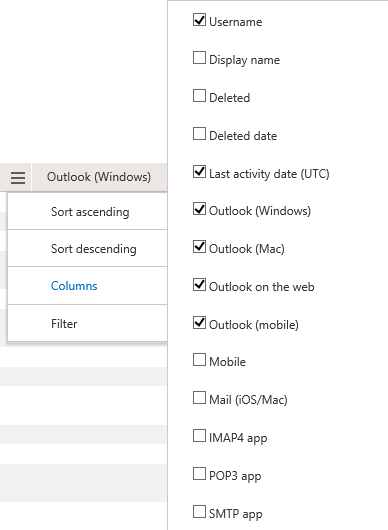
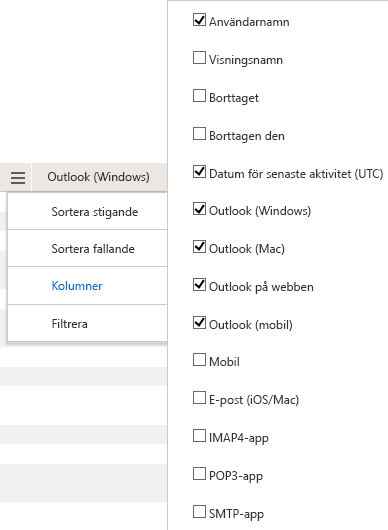
commit translated contents

diff --git a/microsoft-365/enterprise/connect-to-all-microsoft-365-services-in-a-single-windows-powershell-window.md b/microsoft-365/enterprise/connect-to-all-microsoft-365-services-in-a-single-windows-powershell-window.md
@@ -3,7 +3,7 @@ title: Ansluta till alla Microsoft 365-tjänster i ett enda PowerShell-fönster
 ms.author: josephd
 author: JoeDavies-MSFT
 manager: laurawi
-ms.date: 08/26/2020
+ms.date: 09/10/2020
 audience: ITPro
 ms.topic: article
 ms.service: o365-administration
@@ -18,12 +18,12 @@ ms.custom:
 - httpsfix
 ms.assetid: 53d3eef6-4a16-4fb9-903c-816d5d98d7e8
 description: 'Sammanfattning: Ansluta till alla Microsoft 365-tjänster i ett enda PowerShell-fönster.'
-ms.openlocfilehash: af676434017cbe7025baa5e8509e6203a5d59674
-ms.sourcegitcommit: 555d756c69ac9031d1fb928f2e1f9750beede066
+ms.openlocfilehash: 08d2f4c6ce67aa9fea196d56b2eb5f36a36d7943
+ms.sourcegitcommit: aeb94601a81db3ead8610c2f36cff30eb9fe10e7
 ms.translationtype: HT
 ms.contentlocale: sv-SE
-ms.lasthandoff: 08/29/2020
-ms.locfileid: "47307631"
+ms.lasthandoff: 09/10/2020
+ms.locfileid: "47430052"
 ---
 # <a name="connect-to-all-microsoft-365-services-in-a-single-powershell-window"></a>Ansluta till alla Microsoft 365-tjänster i ett enda PowerShell-fönster
 
@@ -39,7 +39,7 @@ Du kan inte använda det här alternativet för att hantera Microsoft 365 efters
 
 Innan du kan hantera hela Microsoft 365 från en enda instans av PowerShell måste följande förutsättningar vara uppfyllda:
   
-- Det Microsoft 365-konto för arbete eller skola som du använder för de här procedurerna måste vara medlem i en administratörsroll för Microsoft 365. Mer information finns i [Om administratörsroller](https://docs.microsoft.com/microsoft-365/admin/add-users/about-admin-roles?view=o365-worldwide). Det här är ett krav för PowerShell för Microsoft 365, inte nödvändigtvis för alla andra Microsoft 365-tjänster.
+- Det Microsoft 365-konto för arbete eller skola som du använder för de här procedurerna måste vara medlem i en administratörsroll för Microsoft 365. Mer information finns i [Om administratörsroller](https://docs.microsoft.com/microsoft-365/admin/add-users/about-admin-roles). Det här är ett krav för PowerShell för Microsoft 365, inte nödvändigtvis för alla andra Microsoft 365-tjänster.
     
 - Du kan använda följande 64-bitars versioner av Windows:
     
@@ -66,7 +66,7 @@ Innan du kan hantera hela Microsoft 365 från en enda instans av PowerShell mås
    - [Azure Active Directory V2](connect-to-microsoft-365-powershell.md#connect-with-the-azure-active-directory-powershell-for-graph-module)
    - [SharePoint Online Management Shell](https://go.microsoft.com/fwlink/p/?LinkId=255251)
    - [Skype för företag – Online, PowerShell-modul](https://go.microsoft.com/fwlink/p/?LinkId=532439)
-   - [Exchange Online PowerShell V2](https://docs.microsoft.com/powershell/exchange/exchange-online/exchange-online-powershell-v2/exchange-online-powershell-v2?view=exchange-ps#install-and-maintain-the-exchange-online-powershell-v2-module)
+   - [Exchange Online PowerShell V2](https://docs.microsoft.com/powershell/exchange/exchange-online/exchange-online-powershell-v2/exchange-online-powershell-v2#install-and-maintain-the-exchange-online-powershell-v2-module)
    - [Teams PowerShell översikt](https://docs.microsoft.com/microsoftteams/teams-powershell-overview)
     
 -  PowerShell måste konfigureras för körning av signerade skript för Skype för företag – Online och Säkerhets- &amp; efterlevnadscenter. Det gör du genom att köra följande kommando i en upphöjd PowerShell-session (ett PowerShell-fönster som du öppnar genom att välja **Kör som administratör**).
@@ -74,6 +74,12 @@ Innan du kan hantera hela Microsoft 365 från en enda instans av PowerShell mås
    ```powershell
    Set-ExecutionPolicy RemoteSigned
    ```
+
+## <a name="exchange-online-and-security-amp-compliance-center-with-the-exchange-online-powershell-v2-module"></a>Exchange Online och Säkerhets &amp; Efterlevnadscenter med modulen Exchange Online PowerShell V2
+
+I den här artikeln används Exchange Online PowerShell V2-modulen för att ansluta till både Exchange Online och Säkerhets &amp; Efterlevnadscenter. Men för närvarande går det inte att ansluta till både Exchange Online och Säkerhets &amp; Efterlevnadscenter **i samma PowerShell-fönster**.
+
+Därför måste du välja en anslutning med endera Exchange Online *eller* Säkerhets &amp; Efterlevnadscenter när du konfigurerar ett PowerShell-fönster för flera Microsoft 365-tjänster.
 
 ## <a name="connection-steps-when-using-just-a-password"></a>Anslutningssteg när du bara använder ett lösenord
 
@@ -93,14 +99,14 @@ Här är några steg för att ansluta till alla tjänster i ett enda PowerShell-
    Connect-AzureAD -Credential $credential
    ```
   
-   Om du däremot använder modulen Microsoft Azure Active Directory för PowerShell-moduler kör du det här kommandot.
+   Om du använder modulen Microsoft Azure Active Directory-modul för Windows PowerShell kör du det här kommandot.
       
    ```powershell
    Connect-MsolService -Credential $credential
    ```
 
    > [!Note]
-   > PowerShell Core stöder inte modulen Microsoft Azure Active Directory för PowerShell-moduler och -cmdlets med **MSOL** i namnet. Om du vill fortsätta använda dessa cmdlets måste du köra dem från PowerShell.
+   > PowerShell Core stöder inte Microsoft Azure Active Directory-modul för Windows PowerShell-modulen och-cmdlets med **MSOL** i namnet. Om du vill fortsätta använda dessa cmdlets måste du köra dem från PowerShell.
 
 4. Kör dessa kommandon för att ansluta till SharePoint Online. Ange organisationsnamnet för din domän. Till exempel, för "litwareinc.onmicrosoft.com" är organisationensnamnet "litwareinc".
     
@@ -120,13 +126,25 @@ Här är några steg för att ansluta till alla tjänster i ett enda PowerShell-
 6. Kör det här kommandot när du vill ansluta till Exchange Online.
     
    ```powershell
+   Import-Module ExchangeOnlineManagement
    Connect-ExchangeOnline -Credential $credential -ShowProgress $true
    ```
 
    > [!Note]
-   > Om du vill ansluta till Exchange Online för Microsoft 365-moln som inte är världsomspännande använder du **-ExchangeEnvironmentName** parameter. Mer information finns i [Connect-ExchangeOnline](https://docs.microsoft.com/powershell/module/exchange/powershell-v2-module/connect-exchangeonline?view=exchange-ps).
+   > Om du vill ansluta till Exchange Online för Microsoft 365-moln som inte är världsomspännande se [-Ansluta till Exchange Online PowerShell](https://docs.microsoft.com/powershell/exchange/connect-to-exchange-online-powershell).
 
-7. Kör dessa kommandon för att ansluta till Teams PowerShell.
+7. Kör dessa kommandon för att ansluta till Säkerhets &amp; Efterlevnadscenter.
+    
+   ```powershell
+   $acctName="<UPN of the account, such as belindan@litwareinc.onmicrosoft.com>"
+   Import-Module ExchangeOnlineManagement
+   Connect-IPPSSession -UserPrincipalName $acctName
+   ```
+
+   > [!Note]
+   > Om du vill ansluta till &amp; säkerhet- och efterlevnadscenter för Microsoft 365-moln, annat än världsomspännande läser du [Ansluta till Säkerhets- och efterlevnadscenter PowerShell](https://docs.microsoft.com/powershell/exchange/connect-to-scc-powershell).
+
+8. Kör dessa kommandon för att ansluta till Teams PowerShell.
     
    ```powershell
    Import-Module MicrosoftTeams
@@ -134,19 +152,12 @@ Här är några steg för att ansluta till alla tjänster i ett enda PowerShell-
    ```
   
    > [!Note]
-   > Om du vill ansluta till Microsoft Teams-moln som inte är världsomspännande läser du [Connect-MicrosoftTeams](https://docs.microsoft.com/powershell/module/teams/connect-microsoftteams?view=teams-ps).
+   > Om du vill ansluta till Microsoft Teams-moln som inte är världsomspännande läser du [Connect-MicrosoftTeams](https://docs.microsoft.com/powershell/module/teams/connect-microsoftteams).
 
-8. Kör dessa kommandon för att ansluta till &amp; säkerhet- och efterlevnadscenter.
-    
-   ```powershell
-   $SccSession = New-PSSession -ConfigurationName Microsoft.Exchange -ConnectionUri https://ps.compliance.protection.outlook.com/powershell-liveid/ -Credential $credential -Authentication "Basic" -AllowRedirection
-   Import-PSSession $SccSession -Prefix cc
-   ```
 
-   > [!Note]
-   > Om du vill ansluta till &amp; säkerhet- och efterlevnadscenter för Microsoft 365-moln, annat än världsomspännande läser du [Ansluta till Säkerhets- och efterlevnadscenter PowerShell](https://docs.microsoft.com/powershell/exchange/office-365-scc/connect-to-scc-powershell/connect-to-scc-powershell).
+### <a name="azure-active-directory-powershell-for-graph-module"></a>Azure Active Directory PowerShell för modulen Graph
 
-Här är alla kommandon i ett enda block när du använder Azure Active Directory PowerShell för Graph-moduler. Ange namnet på domänvärden och kör alla samtidigt.
+Här följer kommandon för alla tjänster *, förutom Säkerhets &amp; Efterlevnadscenter* i ett enda block med hjälp av modulen Azure Active Directory PowerShell för modulen Graph. Ange namnet på domänvärden och kör alla samtidigt.
   
 ```powershell
 $orgName="<for example, litwareinc for litwareinc.onmicrosoft.com>"
@@ -157,14 +168,33 @@ Connect-SPOService -Url https://$orgName-admin.sharepoint.com -credential $crede
 Import-Module SkypeOnlineConnector
 $sfboSession = New-CsOnlineSession -Credential $credential
 Import-PSSession $sfboSession
-$SccSession = New-PSSession -ConfigurationName Microsoft.Exchange -ConnectionUri https://ps.compliance.protection.outlook.com/powershell-liveid/ -Credential $credential -Authentication "Basic" -AllowRedirection
-Import-PSSession $SccSession -Prefix cc
+Import-Module ExchangeOnlineManagement
 Connect-ExchangeOnline -Credential $credential -ShowProgress $true
 Import-Module MicrosoftTeams
 Connect-MicrosoftTeams -Credential $credential
 ```
 
-Alternativt finns här alla kommandon i ett enda block när du använder modulen Microsoft Azure Active Directory för PowerShell-moduler. Ange namnet på domänvärden och kör alla samtidigt.
+Här följer kommandon för alla tjänster *, förutom Exchange Online * i ett enda block med hjälp av modulen Azure Active Directory PowerShell för modulen Graph. Ange namnet på domänvärden och UPN på din inloggning och kör alla samtidigt.
+  
+```powershell
+$orgName="<for example, litwareinc for litwareinc.onmicrosoft.com>"
+$acctName="<UPN of the account, such as belindan@litwareinc.onmicrosoft.com>"
+$credential = Get-Credential -UserName $acctName
+Connect-AzureAD -Credential $credential
+Import-Module Microsoft.Online.SharePoint.PowerShell -DisableNameChecking
+Connect-SPOService -Url https://$orgName-admin.sharepoint.com -credential $credential
+Import-Module SkypeOnlineConnector
+$sfboSession = New-CsOnlineSession -Credential $credential
+Import-PSSession $sfboSession
+Import-Module ExchangeOnlineManagement
+Connect-IPPSSession -UserPrincipalName $acctName
+Import-Module MicrosoftTeams
+Connect-MicrosoftTeams -Credential $credential
+```
+
+### <a name="microsoft-azure-active-directory-module-for-windows-powershell-module"></a>Microsoft Azure Active Directory-modulen för modulen Windows PowerShell
+
+Här följer kommandon för alla tjänster *, förutom Säkerhets &amp; Efterlevnadscenter* i ett enda block med hjälp av modulen Microsoft Azure Active Directory för modulen PowerShell. Ange namnet på domänvärden och kör alla samtidigt.
   
 ```powershell
 $orgName="<for example, litwareinc for litwareinc.onmicrosoft.com>"
@@ -175,22 +205,34 @@ Connect-SPOService -Url https://$orgName-admin.sharepoint.com -credential $crede
 Import-Module SkypeOnlineConnector
 $sfboSession = New-CsOnlineSession -Credential $credential
 Import-PSSession $sfboSession
-$SccSession = New-PSSession -ConfigurationName Microsoft.Exchange -ConnectionUri https://ps.compliance.protection.outlook.com/powershell-liveid/ -Credential $credential -Authentication "Basic" -AllowRedirection
-Import-PSSession $SccSession -Prefix cc
+Import-Module ExchangeOnlineManagement
 Connect-ExchangeOnline -Credential $credential -ShowProgress $true
 Import-Module MicrosoftTeams
 Connect-MicrosoftTeams -Credential $credential
 ```
 
-När du är redo att stänga PowerShell-fönstret kör du det här kommandot för att ta bort aktiva sessioner till Skype för företag – Online, SharePoint Online, Säkerhets- &amp; efterlevnadscenter och Teams:
+Här följer kommandon för alla tjänster *, förutom Exchange Online* i ett enda block med hjälp av modulen Microsoft Azure Active Directory för modulen Windows PowerShell. Ange namnet på domänvärden och UPN på din inloggning och kör alla samtidigt.
   
 ```powershell
-Remove-PSSession $sfboSession ; Remove-PSSession $SccSession ; Disconnect-SPOService ; Disconnect-MicrosoftTeams 
+$orgName="<for example, litwareinc for litwareinc.onmicrosoft.com>"
+$acctName="<UPN of the account, such as belindan@litwareinc.onmicrosoft.com>"
+$credential = Get-Credential -UserName $acctName
+Connect-AzureAD -Credential $credential
+Import-Module Microsoft.Online.SharePoint.PowerShell -DisableNameChecking
+Connect-SPOService -Url https://$orgName-admin.sharepoint.com -credential $credential
+Import-Module SkypeOnlineConnector
+$sfboSession = New-CsOnlineSession -Credential $credential
+Import-PSSession $sfboSession
+Import-Module ExchangeOnlineManagement
+Connect-IPPSSession -UserPrincipalName $acctName
+Import-Module MicrosoftTeams
+Connect-MicrosoftTeams -Credential $credential
 ```
-
 ## <a name="connection-steps-when-using-multi-factor-authentication"></a>Anslutningssteg när du använder multifaktorautentisering
 
-Här är alla kommandon i ett enda block för att ansluta till Azure AD, SharePoint Online, Skype för företag, Exchange Online och Teams med multifaktorautentisering in ett enda fönster med hjälp av Azure Active Directory PowerShell för Graph-modul. Ange användarhuvudnamn (UPN) för ett användarkonto och domänvärdens namn och kör alla samtidigt.
+### <a name="azure-active-directory-powershell-for-graph-module"></a>Azure Active Directory PowerShell för modulen Graph
+
+Här är alla kommandon i ett enda block för att ansluta till flera Microsoft 365-tjänster *förutom Säkerhets &amp; Efterlevnadscenter * med multifaktorautentisering med hjälp av Azure Active Directory PowerShell för modulen Graph.
 
 ```powershell
 $acctName="<UPN of the account, such as belindan@litwareinc.onmicrosoft.com>"
@@ -203,13 +245,34 @@ Connect-SPOService -Url https://$orgName-admin.sharepoint.com
 $sfboSession = New-CsOnlineSession -UserName $acctName
 Import-PSSession $sfboSession
 #Exchange Online
+Import-Module ExchangeOnlineManagement
 Connect-ExchangeOnline -UserPrincipalName $acctName -ShowProgress $true
 #Teams
 Import-Module MicrosoftTeams
 Connect-MicrosoftTeams
 ```
+Här är alla kommandon i ett enda block för att ansluta till flera Microsoft 365-tjänster *förutom Exchange Online * med multifaktorautentisering med hjälp av Azure Active Directory PowerShell för modulen Graph.
 
-Här finns annars alla kommandon när du använder modulen Microsoft Azure Active Directory för PowerShell-moduler.
+```powershell
+$acctName="<UPN of the account, such as belindan@litwareinc.onmicrosoft.com>"
+$orgName="<for example, litwareinc for litwareinc.onmicrosoft.com>"
+#Azure Active Directory
+Connect-AzureAD
+#SharePoint Online
+Connect-SPOService -Url https://$orgName-admin.sharepoint.com
+#Skype for Business Online
+$sfboSession = New-CsOnlineSession -UserName $acctName
+Import-PSSession $sfboSession
+#Security & Compliance Center
+Import-Module ExchangeOnlineManagement
+Connect-IPPSSession -UserPrincipalName $acctName
+#Teams
+Import-Module MicrosoftTeams
+Connect-MicrosoftTeams
+```
+### <a name="microsoft-azure-active-directory-module-for-windows-powershell-module"></a>Microsoft Azure Active Directory-modulen för modulen Windows PowerShell
+
+Här är alla kommandon i ett enda block för att ansluta till flera Microsoft 365-tjänster *förutom Säkerhets &amp; Efterlevnadscenter* med multifaktorautentisering med hjälp av modulen Microsoft Azure Active Directory för modulen Windows PowerShell..
 
 ```powershell
 $acctName="<UPN of the account, such as belindan@litwareinc.onmicrosoft.com>"
@@ -222,13 +285,40 @@ Connect-SPOService -Url https://$orgName-admin.sharepoint.com
 $sfboSession = New-CsOnlineSession -UserName $acctName
 Import-PSSession $sfboSession
 #Exchange Online
+Import-Module ExchangeOnlineManagement
 Connect-ExchangeOnline -UserPrincipalName $acctName -ShowProgress $true
 #Teams
 Import-Module MicrosoftTeams
 Connect-MicrosoftTeams
 ```
+Här är alla kommandon i ett enda block för att ansluta till flera Microsoft 365-tjänster *förutom Exchange Online * med multifaktorautentisering med hjälp av modulen Microsoft Azure Active Directory för modulen Windows PowerShell.
 
-I &amp; säkerhet- och efterlevnadscenter hittar du information om [Ansluta till säkerhet- och efterlevnadscenter PowerShell med multifaktorautentisering](https://docs.microsoft.com/powershell/exchange/office-365-scc/connect-to-scc-powershell/mfa-connect-to-scc-powershell?view=exchange-ps) för att ansluta med multifaktorautentisering:
+```powershell
+$acctName="<UPN of the account, such as belindan@litwareinc.onmicrosoft.com>"
+$orgName="<for example, litwareinc for litwareinc.onmicrosoft.com>"
+#Azure Active Directory
+Connect-MsolService
+#SharePoint Online
+Connect-SPOService -Url https://$orgName-admin.sharepoint.com
+#Skype for Business Online
+$sfboSession = New-CsOnlineSession -UserName $acctName
+Import-PSSession $sfboSession
+#Security & Compliance Center
+Import-Module ExchangeOnlineManagement
+Connect-IPPSSession -UserPrincipalName $acctName
+#Teams
+Import-Module MicrosoftTeams
+Connect-MicrosoftTeams
+```
+
+## <a name="close-the-powershell-window"></a>Stäng PowerShell-fönstret.
+
+När du är redo att stänga PowerShell-fönstret kör du det här kommandot för att ta bort aktiva sessioner till Skype för företag – Online, SharePoint Online och Teams:
+  
+```powershell
+Remove-PSSession $sfboSession ; Disconnect-SPOService ; Disconnect-MicrosoftTeams 
+```
+
 
 ## <a name="see-also"></a>Se även
 

diff --git a/microsoft-365/enterprise/manage-skype-for-business-online-with-microsoft-365-powershell.md b/microsoft-365/enterprise/manage-skype-for-business-online-with-microsoft-365-powershell.md
@@ -13,28 +13,28 @@ f1.keywords:
 - NOCSH
 ms.custom: ''
 ms.assetid: 054c16e6-9fd1-4e85-a0e6-81788b8410ea
-description: 'Sammanfattning: Använd PowerShell för Microsoft 365 om du vill hantera principer för Skype för företag – Online, principer för användare och mötesinställningar.'
-ms.openlocfilehash: aea78d135a5d7ffbb5d8480c549d0fdee88f7d51
-ms.sourcegitcommit: 79065e72c0799064e9055022393113dfcf40eb4b
+description: Använd PowerShell för Microsoft 365 om du vill hantera principer för Skype för företag – Online, principer för användare och mötesinställningar.
+ms.openlocfilehash: d50f35d7d5e81622eb8dfc3bbf8328a8c43e9676
+ms.sourcegitcommit: aeb94601a81db3ead8610c2f36cff30eb9fe10e7
 ms.translationtype: HT
 ms.contentlocale: sv-SE
-ms.lasthandoff: 08/14/2020
-ms.locfileid: "46694773"
+ms.lasthandoff: 09/10/2020
+ms.locfileid: "47430040"
 ---
 # <a name="manage-skype-for-business-online-with-powershell"></a>Hantera Skype för företag – Online med PowerShell
 
 *Denna artikel gäller för både Microsoft 365 Enterprise och Office 365 Enterprise.*
 
-En av de viktigaste aktiviteterna i valfri Skype för företag – Online-administratör är hantering av principer. Även om du kan utföra vissa av de här uppgifterna i administrationscentret för Microsoft 365, kan andra uppgifter vara mycket snabbare och enklare i PowerShell. 
+Administratörer av Skype för företag – Online ansvarar för hantering av principer. Även om du kan utföra vissa av de här uppgifterna i administrationscentret för Microsoft 365, kan andra uppgifter vara enklare i PowerShell.
 
 ## <a name="before-you-start"></a>Innan du börjar
 
-Ladda ned och installera [ Anslutningsmodulen för Skype för företag – Online](https://www.microsoft.com/download/details.aspx?id=39366)och starta om datorn.
+Ladda ned och installera [ Windows PowerShellmodulen för Skype för företag – Online](https://www.microsoft.com/download/details.aspx?id=39366)och starta om datorn.
 
 
-## <a name="connect-using-a-skype-for-business-online-administrator-account-name-and-password"></a>Ansluta med namnet och lösenordet för ditt administratörskonto för Skype för företag – Online
+## <a name="connect-using-skype-for-business-online-admin-credentials"></a>Ansluta med inloggningsuppgifter för Skype för företag – Online
 
-1. Öppna en Windows PowerShell kommandotolk och kör följande kommandon: 
+1. Öppna en Windows PowerShell kommandotolk och kör följande kommandon:
     
    ```powershell
    Import-Module SkypeOnlineConnector
@@ -43,10 +43,10 @@ Ladda ned och installera [ Anslutningsmodulen för Skype för företag – Onlin
    Import-PSSession $sfbSession
    ```
 
-2. I dialogrutan **Begäran om autentiseringsuppgifter för Windows PowerShell** anger du användarnamnet och lösenordet för ditt administratörskonto för Skype för företag – Online och klickar på **OK**.
+2. I dialogrutan **Begäran om autentiseringsuppgifter för Windows PowerShell** anger du användarnamnet och lösenordet för ditt administratörskonto för Skype för företag – Online och välj **OK**.
 
 
-## <a name="connect-using-a-skype-for-business-online-administrator-account-with-multi-factor-authentication"></a>Ansluta med ett namnet och lösenordet för ditt administratörskonto för Skype för företag – Online med multifaktorautentisering
+## <a name="connect-using-an-admin-account-with-multi-factor-authentication"></a>Ansluta med ett administratörskonto med multifaktorautentisering
 
 1. Öppna en Windows PowerShell kommandotolk och kör följande kommandon:
 
@@ -58,11 +58,11 @@ Ladda ned och installera [ Anslutningsmodulen för Skype för företag – Onlin
 
 2. Skriv användarnamnet för ditt administratörskonto för Skype för företag – Online när du uppmanas av kommandot **New-CsOnlineSession**.
 
-3. I dialogrutan **Logga in på ditt konto** skriver du ditt lösenordet för ditt administratörskonto för Skype för företag – Online och klickar sedan på **logga in**.
+3. I dialogrutan **Logga in på ditt konto** skriver du ditt lösenordet för ditt administratörskonto för Skype för företag – Online och välj sedan **logga in**.
 
-4. Följ anvisningarna i dialogrutan **Logga in på ditt konto** för att ange ytterligare autentiseringsinformation, till exempel en verifieringskod, och klicka sedan på **Logga in**.
+4. I dialogrutan **Logga in på ditt konto** följ anvisningarna för att lägga till autentiseringsinformation, till exempel en verifieringskod, och välj sedan **Verifiera**.
 
-Mer information finns i följande avsnitt:
+Mer information finns i:
   
 - [Hantera Skype för företag – Onlineprinciper med PowerShell](manage-skype-for-business-online-policies-with-microsoft-365-powershell.md)
     
@@ -75,4 +75,3 @@ Mer information finns i följande avsnitt:
 [Börja använda PowerShell för Microsoft 365](getting-started-with-microsoft-365-powershell.md)
 
 [PowerShell cmdlet-referenser för Skype för företag](https://docs.microsoft.com/powershell/module/skype/?view=skype-ps)
-
